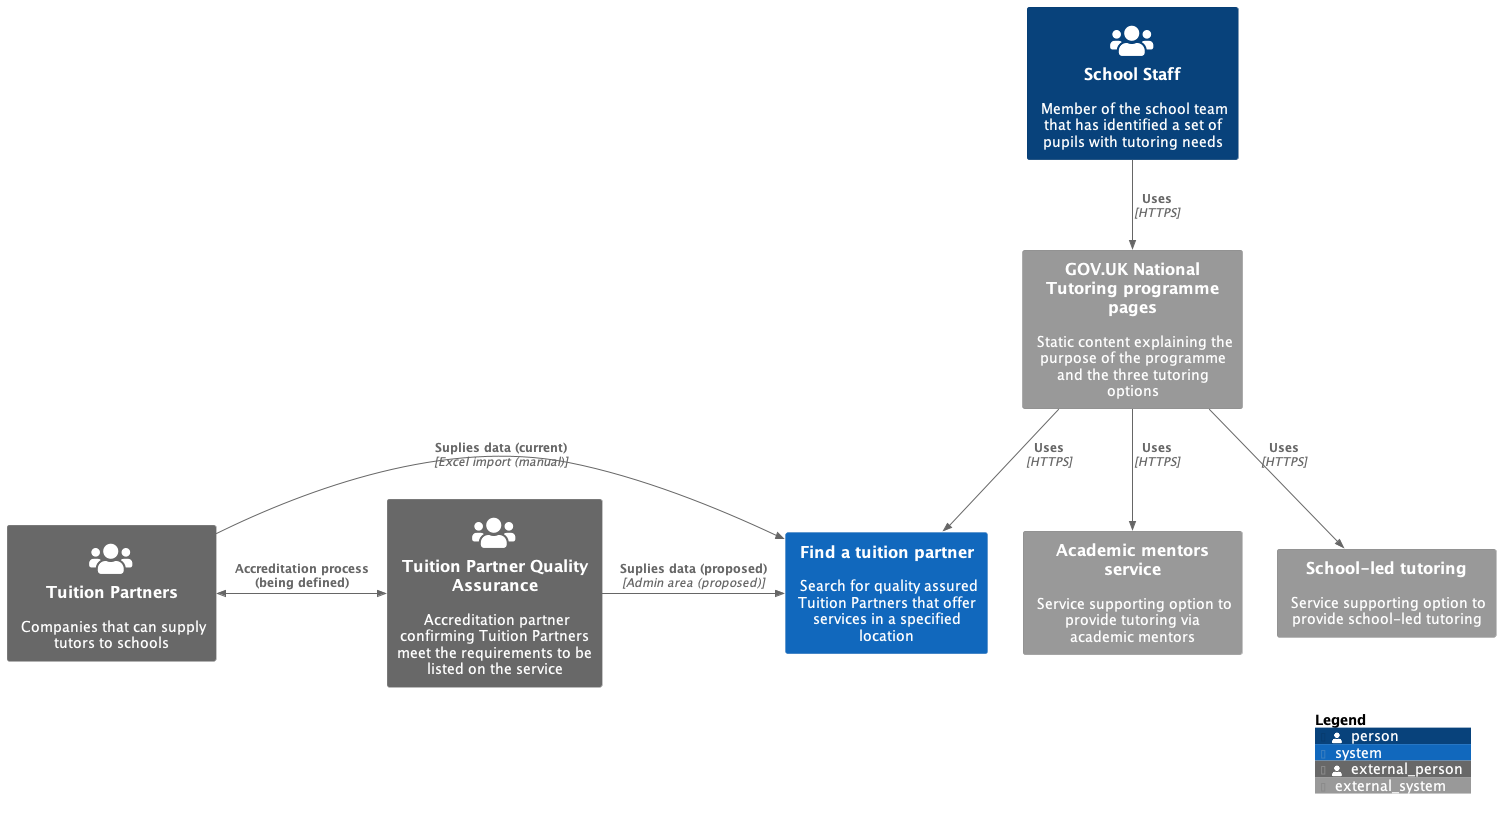
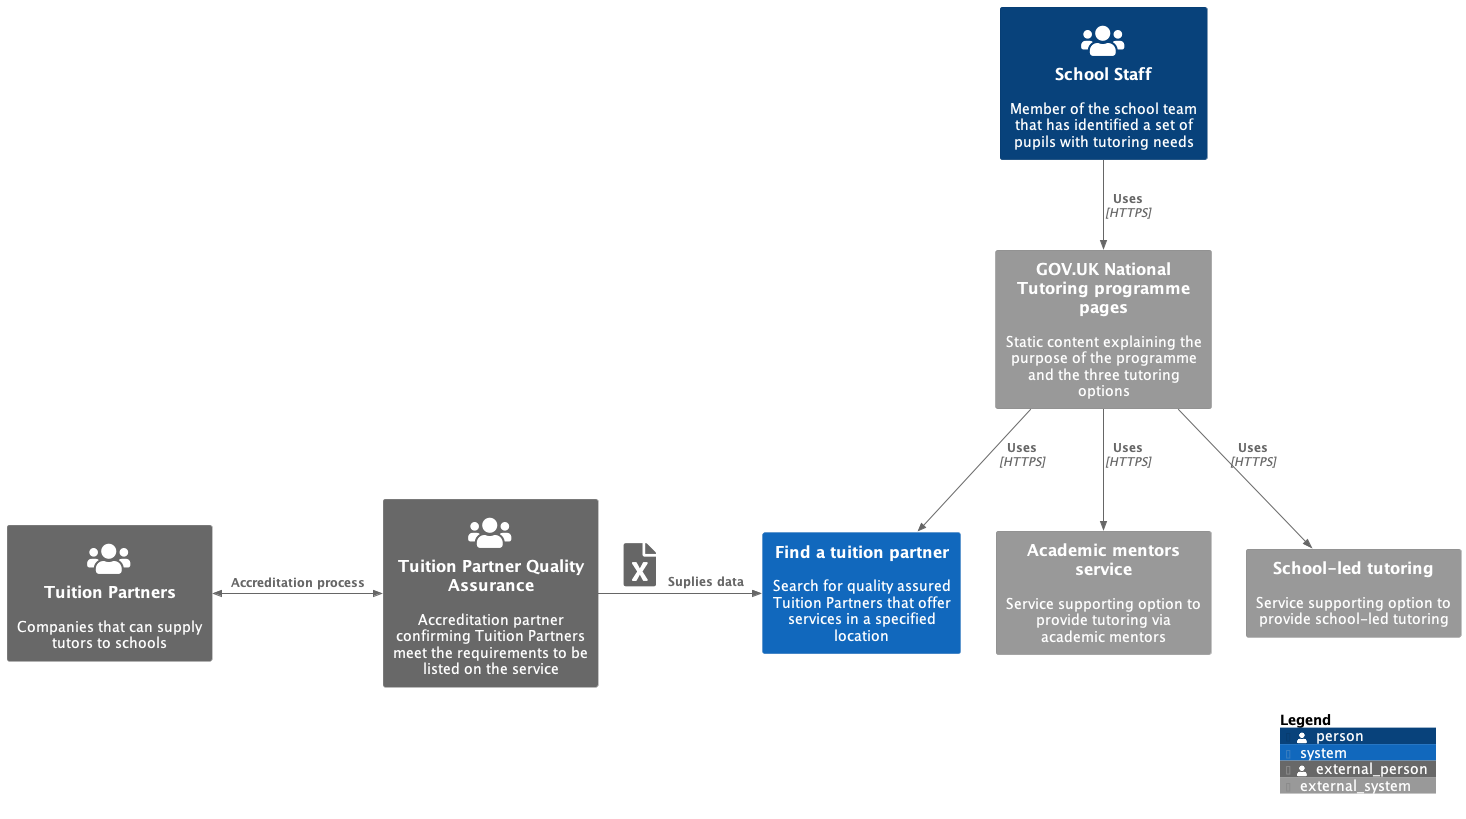
NTP-884: Update the architecture for the enquiry MVP (#288)
* WIP updating the documentation

* Adding session store ADR

* Update ADR-0003 to rejected

* Updating the C4 diagrams a bit

* More C4 updates

* C4 Tweaks

diff --git a/docs/decisions/0006-web-analytics-options.md b/docs/decisions/0006-web-analytics-options.md
@@ -1,0 +1,63 @@
+---
+# These are optional elements. Feel free to remove any of them.
+status: accepted
+date: 2022-12-07
+deciders: NTP developers
+---
+# A solution for non cookie-based (therefore non opt-in) anonymised web analytics 
+
+## Context and Problem Statement
+
+The find a tuition partner service uses Google Analytics (GA) injected via Google Tag Manager (GTM). GTM has been used to send events not natively tracked by GA specifically when the user attempts to contact a TP or visit their website.
+
+GA and GTM have the big advantage of being widely understood as well as relatively easy to integrate with and visualise metrics. Their disadvantage in a government context is the need for users to opt into metrics gathering via GA and GTM that uses cookies. This significantly reduces the accuracy of the gathered metrics.
+
+It has also proven difficult to extract the search parameters used from the query string in GA. This has hampered efforts to identify which schools are using the service.
+
+<!-- This is an optional element. Feel free to remove. -->
+## Decision Drivers
+
+* Opt-in nature of cookie based GTM/GA significantly reduces the accuracy of the gathered metrics.
+* Difficult to extract the search parameters used from the query string in GA.
+
+## Considered Options
+
+* Extracting analytics from logit.io logs
+* Reuse the `dfe-analytics` pattern
+
+## Decision Outcome
+
+Chosen option: "Reuse the `dfe-analytics` pattern", because
+it is an existing pattern already used with DfE and allows us to draw on existing knowledge and Dataforms patterns within DfE.
+
+
+## Pros and Cons of the Options
+
+### Extracting analytics from logit.io logs
+
+The find a tuition partner service uses logit.io as a log aggregator. This is an ELK (Elastic, Logstash, Kibana) stack as a service product. The intended usage of this service was log analysis and exception alerting. All events from the service are logged and as a result, it can also become a source of metrics data. Postcodes used to search for TPs in the service are extracted from Logit.io: Observability Built On Hosted OpenSearch, Jaeger & Grafana .
+
+Every event is logged consistently regardless of client side metrics opt in. This means that we can rely on the accuracy of the usage counts for service functionality. This is a significant advantage over GA. The opensearch and grafana dashboards provided by Logit.io: Observability Built On Hosted OpenSearch, Jaeger & Grafana  provide significant power to analyse and visualise metrics data. Skills in this area are rare however and the existing retention period of 14 days make retrospective analysis of metrics impossible. The retention period could be extended to up to a year if agreed and budgeted for.
+
+* Good, because we are already collecting the data
+* Bad, because skills in this area are rare
+* Bad, because existing retention period of 14 days make retrospective analysis of metrics impossible
+
+### Reuse the `dfe-analytics` pattern
+
+Teacher Services have a mature metrics solution based on streaming event data to Google BigQuery tables. They have created the dfe-analytics Ruby gem which uses the Google Cloud streaming API (specifically the legacy version) to stream events into a predefined, generic events table. Consuming and configuring this gem is a development task.
+
+This generic events table is transformed using dataform into domain specific datasets (tables) that are more easily consumed in Google Data Studio. The dfe-analytics-dataform repo can be added as a dependency within your dataform project to provide SQL functions and table definitions for the generic events table. This is intended to make transforming the data in the events table easier. Managing the dataform task requires SQL skills and is usually handled by a Performance Analyst or Business Analyst. It can also fall under the developer remit.
+
+A team has ported the Ruby gem to dotnet, starting with capturing web requests only rather than the full database and model changes. This is however sufficient for our needs. The port is currently an internal project and won’t be made publicly available as a NuGet package in the short term. We may be able to reference the project directly to prevent duplication of effort
+
+* Good, because it is an established pattern withing DfE
+* Good, because it stores data for as long as we require
+* Bad, because the `dfe-analytics-dotnet` library is quite immature
+
+## More Information
+
+* https://github.com/DFE-Digital/dfe-analytics
+* https://github.com/DFE-Digital/dfe-analytics-dotnet
+
+<!-- markdownlint-disable-file MD013 -->

diff --git a/docs/decisions/0007-user-session-storage.md b/docs/decisions/0007-user-session-storage.md
@@ -1,0 +1,60 @@
+---
+status: accepted
+date: 2023-02-17
+deciders: NTP Dev Team
+---
+# How to store temporary user session data
+
+## Context and Problem Statement
+
+Currently the service builds the user's input (search criteria) in the query string. This works well for the current search use-case because the data is small and not sensitive.
+
+However, for the Build an Enquiry feature we will need to store larger amounts of data, and it will contain some personal data such as work email address. We therefore require a different solution to store temporary user-entered data while they are going through the journey, but before it is finally submitted into the PostgreSQL DB.
+
+## Decision Drivers
+
+* Some data will be personal data
+* We have a short implementation deadline so introducing new infrastructure is problematic
+* Data is text data, and will potentially be several kB in size
+* We need to maintain horizontal scalability of the application
+
+## Considered Options
+
+* Use Redis as a dedicated shared cache
+* Use the existing PostgreSQL database
+* Use an in-process in-memory store, with session affinity 
+
+## Decision Outcome
+
+Chosen option: "Use Redis as a dedicated shared cache", because
+it is a standard pattern, supported ootb in .NET, and we have run a spike to confirm that it is strightforward to implement in GOV.UK PaaS
+
+
+<!-- This is an optional element. Feel free to remove. -->
+## Pros and Cons of the Options
+
+### Use Redis as a dedicated shared cache
+
+https://learn.microsoft.com/en-us/aspnet/core/performance/caching/distributed?view=aspnetcore-7.0#distributed-redis-cache
+
+* Good, because it is an industry standard pattern
+* Good, because it is supported OOTB by .NET Core
+* Good, because Redis is supported as a backing service by GOV.UK PaaS
+* Good, because we can maintain horizontal scalability without any load balancer affinity
+* Bad, because we would need to add additional infrastructure which risks the delivery deadline
+
+### Use the existing PostgreSQL database
+
+* Good, because the database infrastructure already exists
+* Good, because we can maintain horizontal scalability without any load balancer affinity
+* Bad, because using PostreSQL as a cache is not supported OOTB in .NET and would need implementing
+
+### Use an in-process in-memory store, with session affinity 
+
+* Good, because it requires no extra infrastructure
+* Good, because session data is only ever stored in RAM and never persisted
+* Good, because .NET Core supports an in-memory store OOTB
+* Bad, because there would be data loss if one of the application instances restarts or during a release
+
+
+<!-- markdownlint-disable-file MD013 -->

diff --git a/docs/decisions/0003-vertical-slice-architecture.md b/docs/decisions/0003-vertical-slice-architecture.md
@@ -1,6 +1,6 @@
 ---
 # These are optional elements. Feel free to remove any of them.
-status: proposed 
+status: rejected
 date: 2022-06-22
 deciders: NTP developers
 ---
@@ -45,5 +45,13 @@ Chosen option: "organise code in vertical slices", because it promotes encapsula
 ## More Information
 
 https://jimmybogard.com/vertical-slice-architecture/
+
+### Reason for rejection
+
+In a development team meeting on 16th Feb 2023, it was decided that we would continue with the clean architecture approach:
+
+* Most of the codebase is already using a clean architecture approach
+* The development team are more familiar with a clean architectural approach
+* The limited lifespan of the service means that long term supportability is less of an issue
 
 <!-- markdownlint-disable-file MD013 -->
